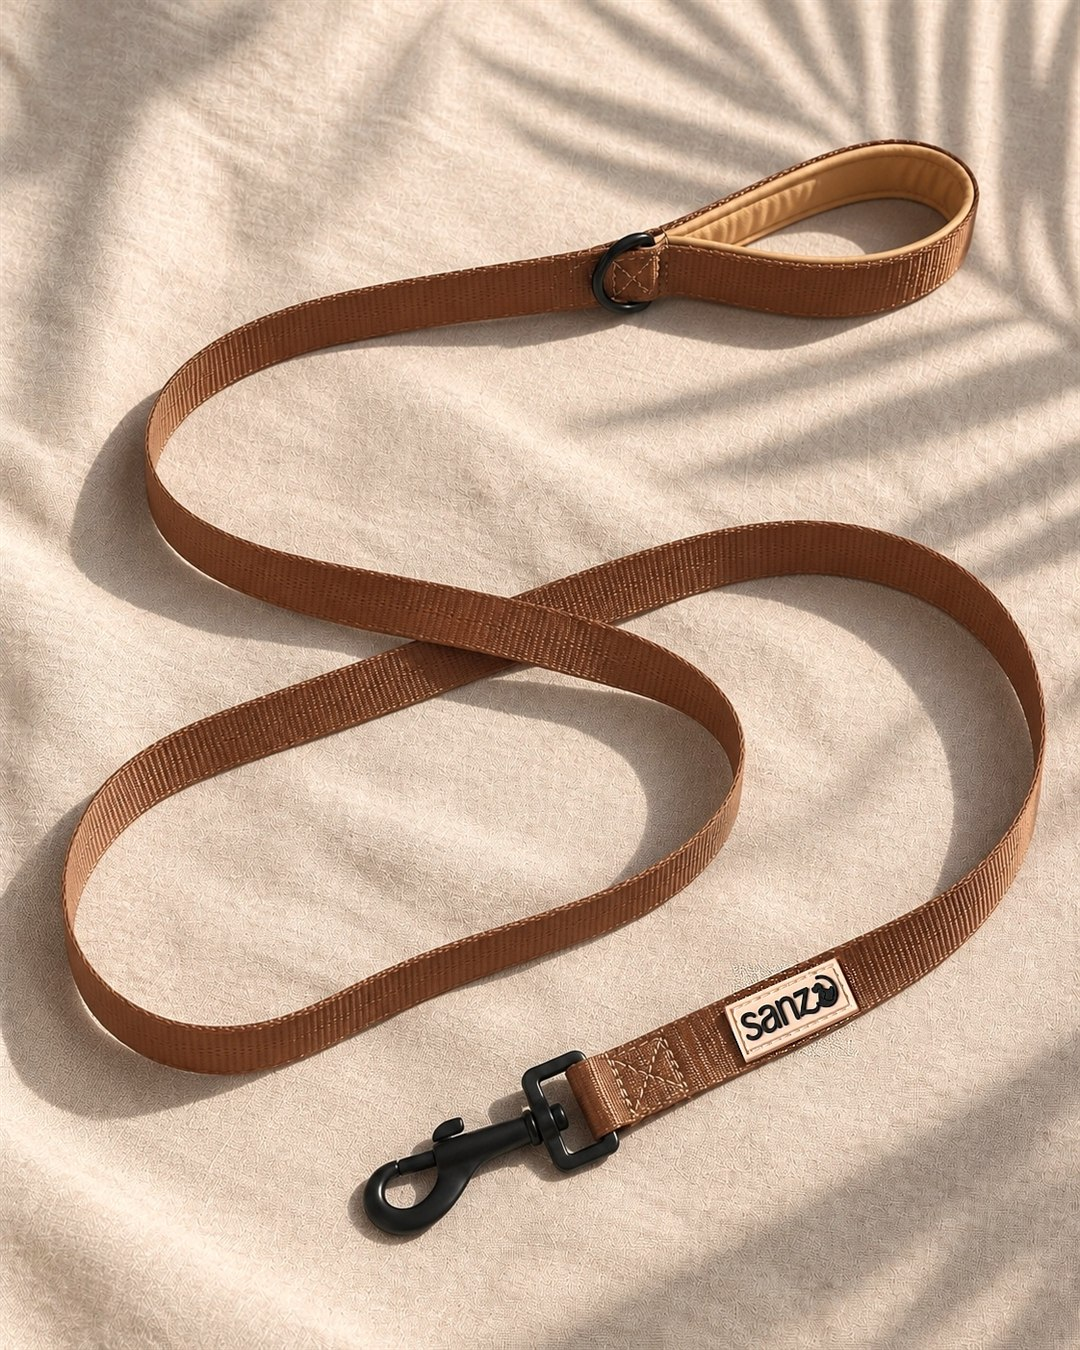
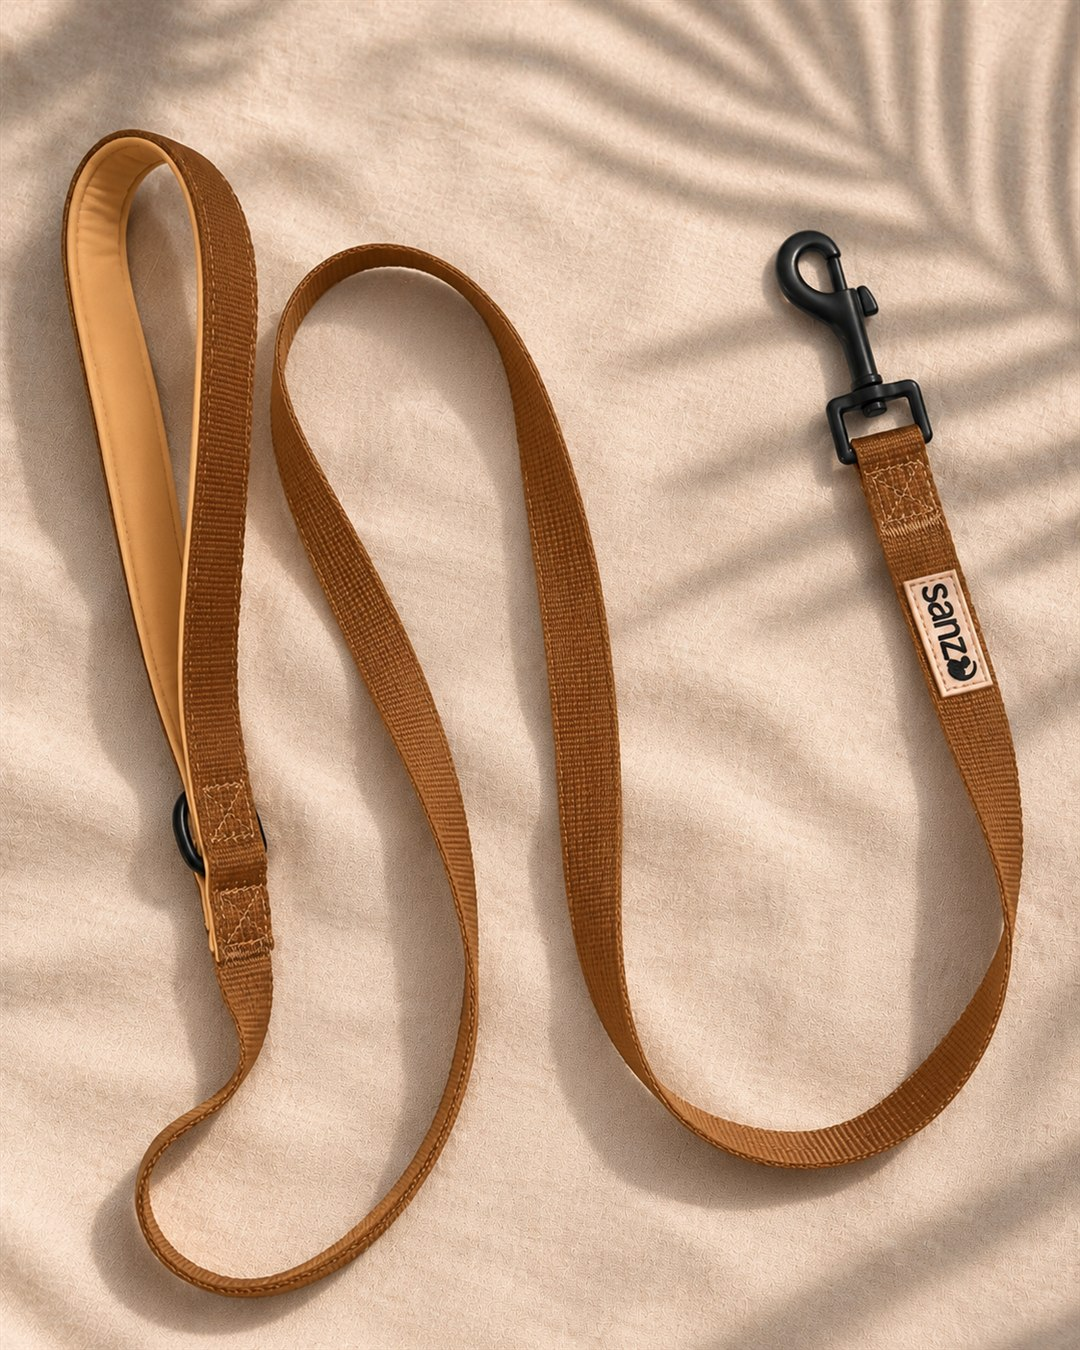
sanzo-web: correa con la manija larga como la real (adelante y atrás) y detalles reubicados

diff --git a/sanzo-web/data/products.ts b/sanzo-web/data/products.ts
@@ -529,7 +529,7 @@ export const individuales: Producto[] = [
     descripcion: "La que combina con todo lo demás.",
     incluye: [],
     precio: 12499,
-    imagenes: ["/productos/solo/correa/1.jpg", "/productos/solo/correa/2.jpg", "/productos/solo/correa/3.jpg"],
+    imagenes: ["/productos/solo/correa/1.jpg", "/productos/solo/correa/atras.jpg", "/productos/solo/correa/2.jpg", "/productos/solo/correa/3.jpg"],
     medidas: [{ texto: "Largo 152 cm · Ancho 2 cm" }],
     envioGratis: false,
     linkPago: "",
